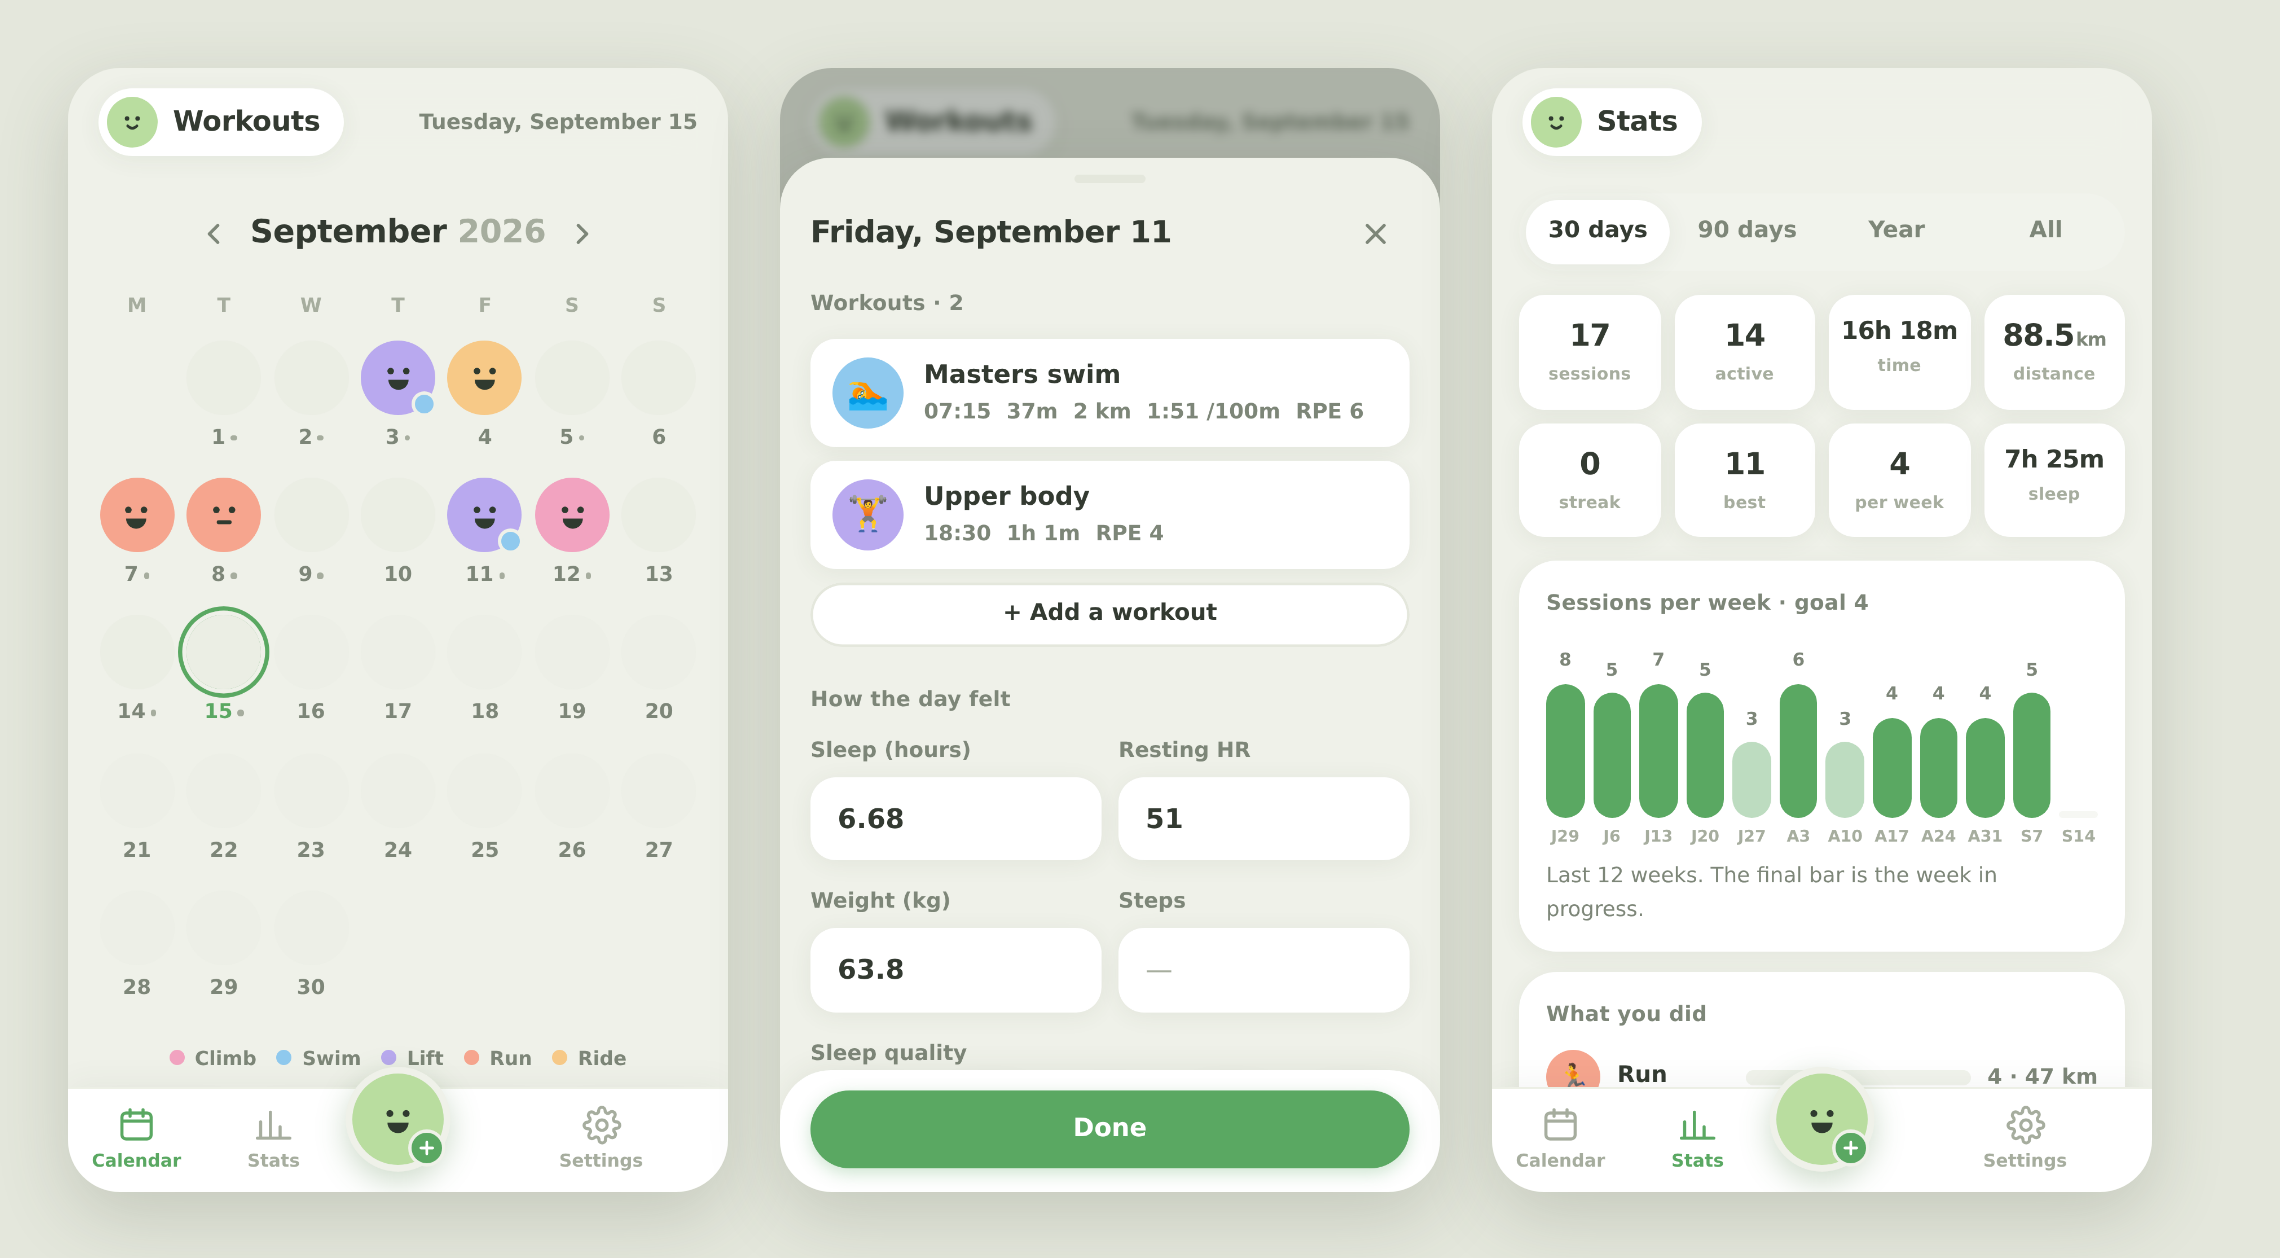
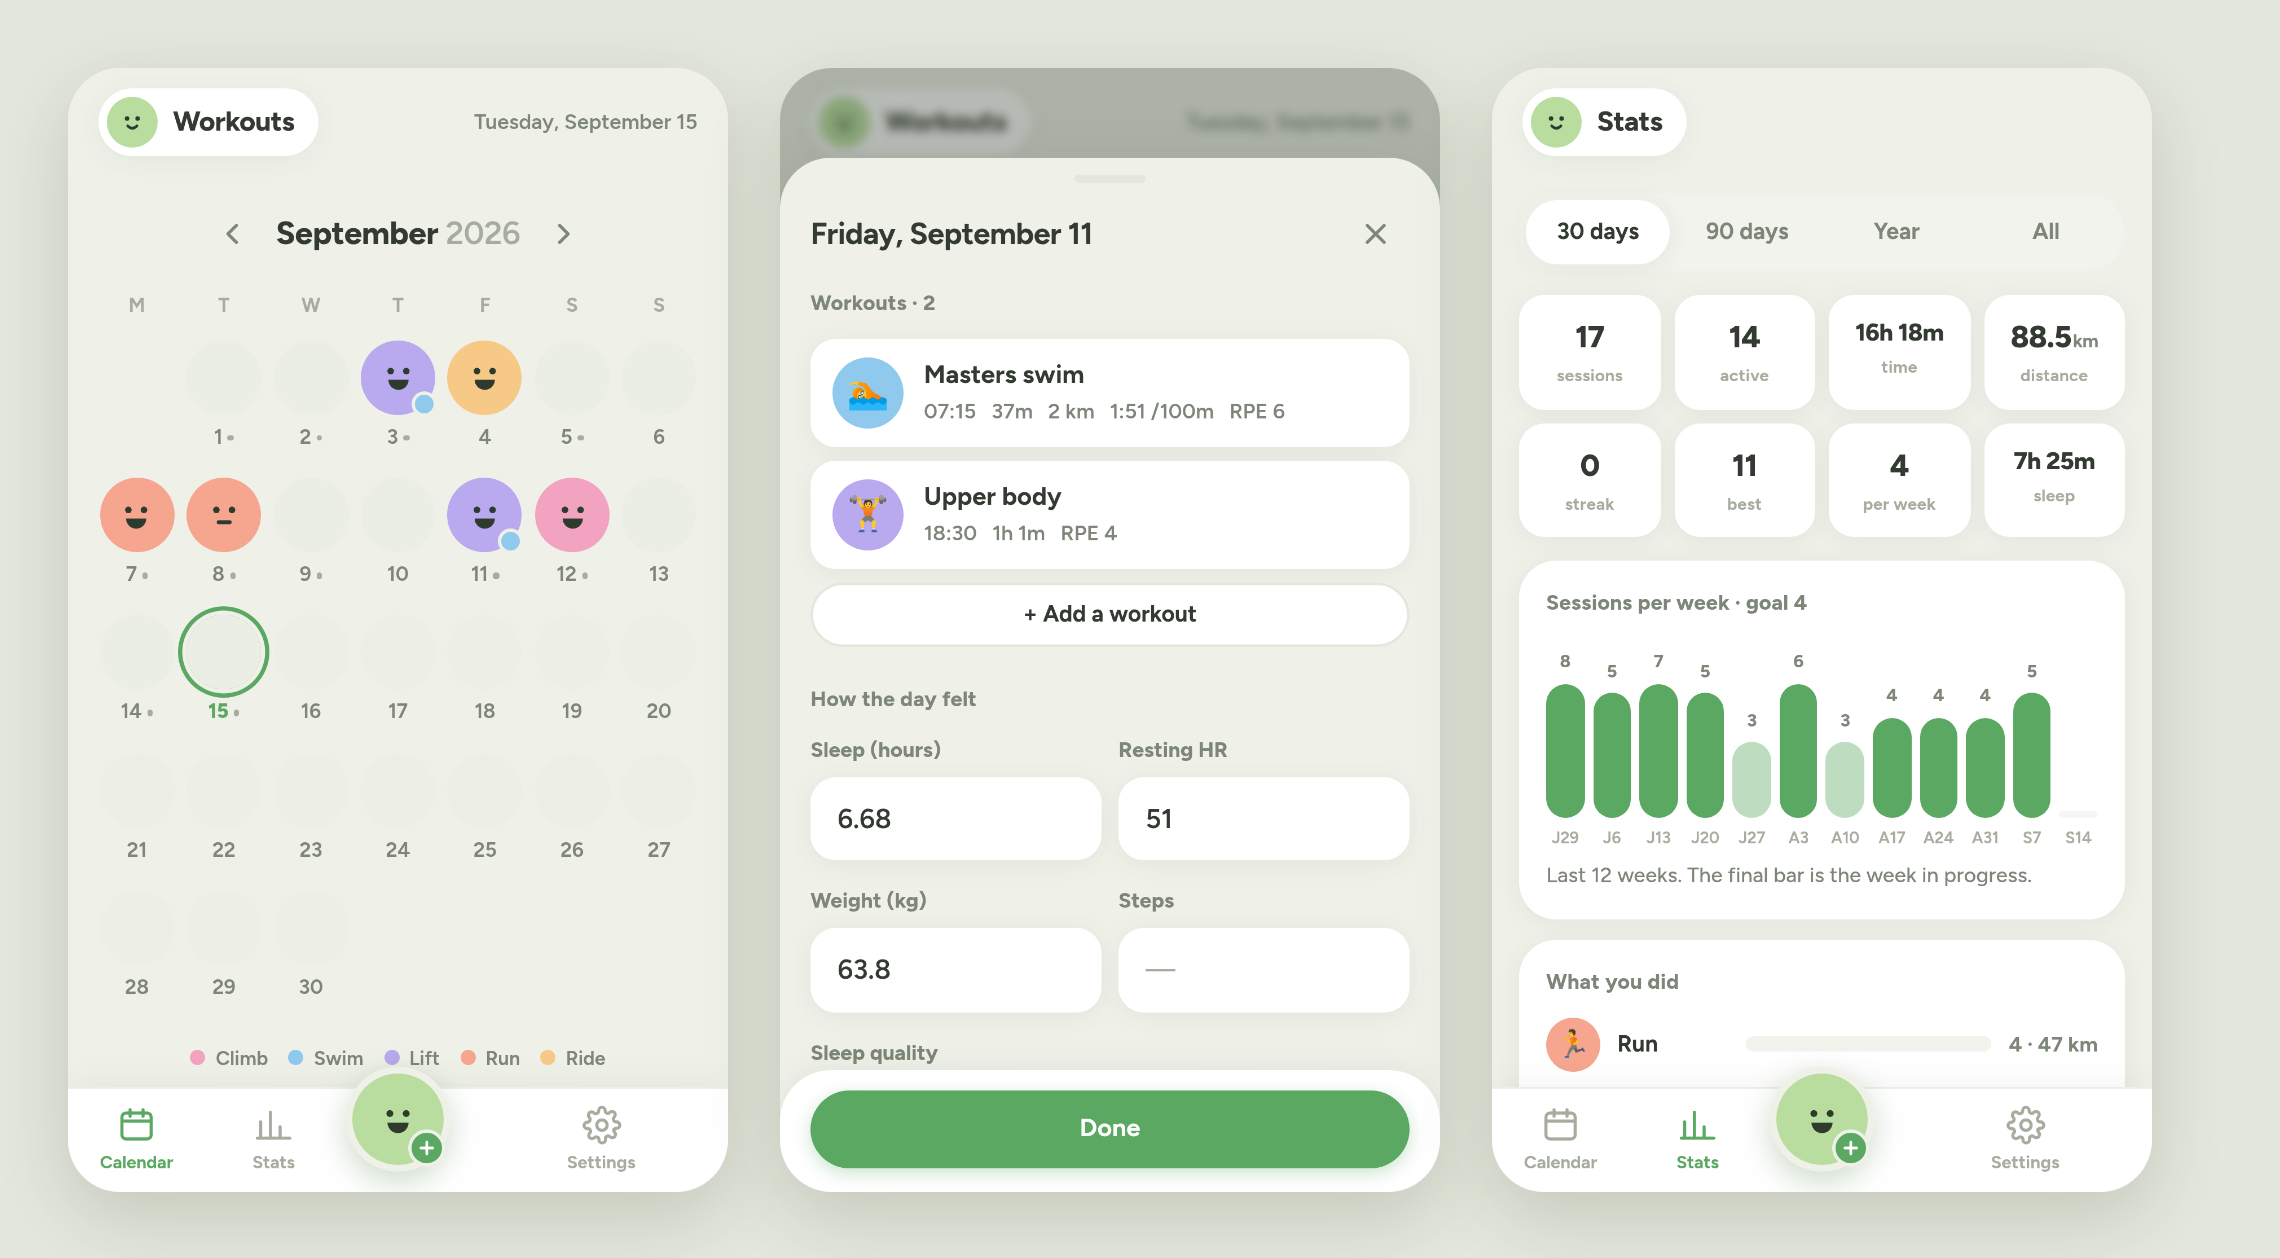
Switch the typeface to Figtree
The rounded system font was soft to the point of mushy at small sizes. Figtree
is a plain geometric sans — closer to the reference, friendlier than Inter,
and much cleaner for calendar numerals and dense workout metadata.

Ships as a single 20 KB variable woff2 in assets/fonts/ rather than a Google
Fonts link, so the app keeps its no-external-dependency, works-offline
property. Preloaded from index.html and added to the service worker precache;
system sans remains the fallback while it loads.

Claude-Session: https://claude.ai/code/session_01YHC9zE35dyf9Km5sP7SgMx

diff --git a/css/app.css b/css/app.css
@@ -1,4 +1,15 @@
 /* ============================================================
+   Type — Figtree, self-hosted so it works offline like the rest
+   ============================================================ */
+@font-face {
+  font-family: 'Figtree';
+  font-style: normal;
+  font-weight: 400 800;   /* one variable file covers every weight used */
+  font-display: swap;
+  src: url('../assets/fonts/figtree-latin.woff2') format('woff2');
+}
+
+/* ============================================================
    Tokens — warm, pastel, light-first
    ============================================================ */
 :root {
@@ -37,8 +48,8 @@
 
   --shadow:    0 2px 14px rgba(70, 82, 60, .07);
   --shadow-lg: 0 10px 34px rgba(50, 62, 42, .16);
-  --font: ui-rounded, 'SF Pro Rounded', -apple-system, BlinkMacSystemFont,
-          'Segoe UI Variable Display', 'Segoe UI', Roboto, system-ui, sans-serif;
+  --font: 'Figtree', -apple-system, BlinkMacSystemFont, 'Segoe UI', Roboto,
+          system-ui, 'Helvetica Neue', sans-serif;
 }
 
 :root[data-theme='dark'] {
@@ -109,7 +120,7 @@ button { cursor: pointer; border: none; background: none; }
 img { max-width: 100%; }
 [hidden] { display: none !important; }
 
-h1, h2, h3, h4 { margin: 0; font-weight: 700; letter-spacing: -0.01em; }
+h1, h2, h3, h4 { margin: 0; font-weight: 700; letter-spacing: -0.015em; }
 
 @media (prefers-reduced-motion: reduce) {
   * { animation-duration: .001s !important; transition-duration: .001s !important; }
@@ -460,7 +471,7 @@ h1, h2, h3, h4 { margin: 0; font-weight: 700; letter-spacing: -0.01em; }
 .stat .v {
   font-size: 18px;
   font-weight: 800;
-  letter-spacing: -.03em;
+  letter-spacing: -.02em;
   white-space: nowrap;
   overflow: hidden;
 }

diff --git a/sw.js b/sw.js
@@ -2,7 +2,7 @@
  * Offline shell. Bump CACHE when you change any file below, otherwise an
  * installed copy on your phone will keep serving the old one.
  */
-const CACHE = 'workouts-v2';
+const CACHE = 'workouts-v3';
 
 const SHELL = [
   './',
@@ -30,6 +30,7 @@ const SHELL = [
   './js/integrations/strava.js',
   './js/integrations/gist.js',
   './assets/icon.svg',
+  './assets/fonts/figtree-latin.woff2',
 ];
 
 self.addEventListener('install', (event) => {

diff --git a/index.html b/index.html
@@ -16,6 +16,7 @@
   <link rel="manifest" href="./manifest.webmanifest">
   <link rel="icon" href="./assets/icon.svg" type="image/svg+xml">
   <link rel="apple-touch-icon" href="./assets/icon-180.png">
+  <link rel="preload" href="./assets/fonts/figtree-latin.woff2" as="font" type="font/woff2" crossorigin>
   <link rel="stylesheet" href="./css/app.css">
 </head>
 <body>

diff --git a/README.md b/README.md
@@ -138,6 +138,7 @@ index.html              markup shell — loads one ES module
 manifest.webmanifest    PWA manifest (home-screen name, icons, colours)
 sw.js                   service worker: offline cache of the app shell
 css/app.css             all styling; design tokens at the top
+assets/fonts/           Figtree, self-hosted so type works offline too
 js/
   main.js               boot, tab routing, the floating add button
   store.js              the data model, persistence, and derived stats
@@ -171,5 +172,9 @@ Two things to remember:
   needs a migration in `store.js`.
 - Colours all come from the tokens at the top of `css/app.css`, defined once
   for light and again for dark.
+- The typeface is Figtree, shipped as a single variable `.woff2` in
+  `assets/fonts/` rather than pulled from a CDN, so the app has no external
+  dependencies and looks the same offline. Swapping it means replacing that
+  file and the `@font-face` and `--font` lines at the top of the stylesheet.
 - After editing any file, bump `CACHE` in `sw.js`. Otherwise a phone that has
   already installed the app keeps serving the old version.
